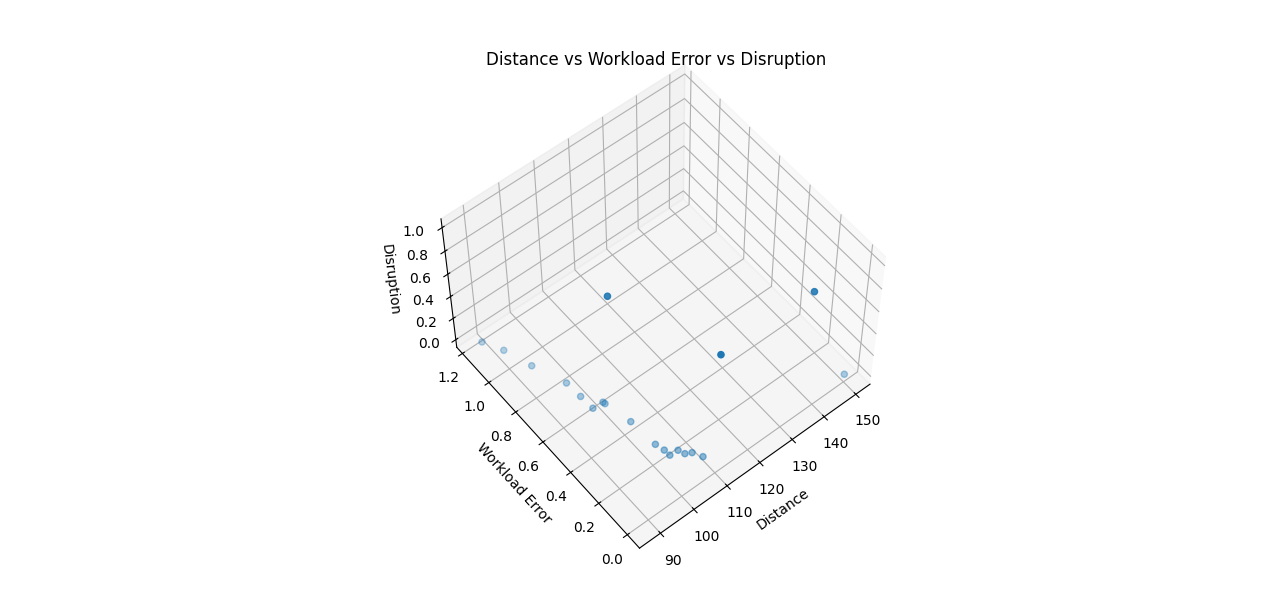
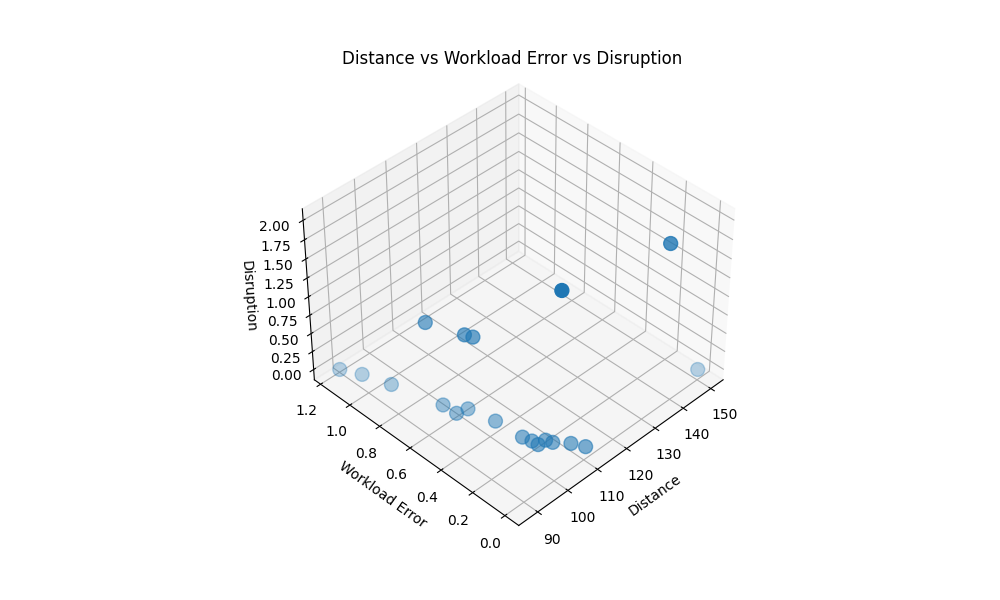
updated scripts and tex

Changed region(s): [[0.248, 0.06, 0.744, 0.93]]

diff --git a/step4/solver_uta.py b/step4/solver_uta.py
@@ -6,7 +6,7 @@ from gurobipy import Model, Var, LinExpr
 import numpy as np
 import matplotlib.pyplot as plt
 from typing import List, Dict
-from get_non_dominated_solutions import get_non_dominated_solutions
+from step4.get_solutions import get_non_dominated_solutions
 
 
 EPSILON = 1e-6
@@ -73,7 +73,7 @@ def print_results(vars: list[list[Var]], errors: list[Var], n, L):
 
 
 def plot_results_criterion(vars: list[list[Var]], n, L):
-    plt.figure(figsize=((14,6)))
+    plt.figure(figsize=((8, 8)))
     for i in range(n):
         x_vals = np.linspace(0, 1, L[i] + 1)
         y_vals = [vars[i][k].X for k in range(L[i] + 1)]
@@ -82,7 +82,7 @@ def plot_results_criterion(vars: list[list[Var]], n, L):
     plt.ylabel("Score")
     plt.title("Linear Curves for Each Criteria")
     plt.legend()
-    plt.savefig("step4/Criterion_Curves.png")
+    plt.savefig("figures/step4_uta_criterion.png")
 
 
 def comparision(vars: list[list[Var]], n, L, new_instances_array, x_min, x_max, plot):
@@ -104,19 +104,23 @@ def comparision(vars: list[list[Var]], n, L, new_instances_array, x_min, x_max, 
     sorted_labels = [f"I({i + 1})" for i in sorted_indices]
     
     if plot:
-        # Plot
-        plt.figure(figsize=(14,6))
+        # Normalize scores for colormap
+        import matplotlib.cm as cm
+        norm = plt.Normalize(min(sorted_scores), max(sorted_scores))
+        colors = plt.get_cmap("coolwarm")(norm(sorted_scores))  # Change "viridis" to another cmap if needed
+        plt.figure(figsize=(8, 8))
         plt.bar(
             range(len(sorted_scores)),
             sorted_scores,
             tick_label=sorted_labels,
+            color=colors,  # Apply colormap
         )
         plt.xlabel("Instances")
         plt.ylabel("Scores")
         plt.xticks(rotation=25)
         plt.title("Scores of New Instances")
-        plt.savefig("step4/UTA_Comparision.png")
-    
+        plt.savefig("figures/step4_uta_comparision.png")
+        
     # Return sorted instances
     return  [
         {
@@ -134,6 +138,7 @@ def main(references_dict, new_instances_dict):
     ############### Get the arrays ###############
     new_instances_dict = get_non_dominated_solutions()
     reference_instances_array, new_instances_array = convert_dictionnaries_to_array(references_dict, new_instances_dict)
+    new_instances_array = new_instances_array[new_instances_array[:, 1] < 1.45]
     n_instances, n = reference_instances_array.shape
     L: list[int] = [3 for _ in range(n)]
     x_min: np.ndarray = np.min(np.concatenate([reference_instances_array, new_instances_array]), axis=0)
@@ -190,8 +195,32 @@ def main(references_dict, new_instances_dict):
     print("-" *100)
     plot_results_criterion(vars = vars, n=n, L=L)
     new_instances_ranked = comparision(vars = vars, n=n, L=L, new_instances_array= new_instances_array, x_max=x_max, x_min=x_min, plot=True)
+    
     for new_instance in new_instances_ranked:
         print(new_instance)
+
+    # Extract the data
+    distances = [solution["total_distance"] for solution in new_instances_ranked]
+    workloads = [solution["max_workload"] for solution in new_instances_ranked]
+    disruptions = [solution["size_disruption"] for solution in new_instances_ranked]
+    ranks = [solution["rank"] for solution in new_instances_ranked]
+
+    fig = plt.figure(figsize=(10, 6))
+    ax = fig.add_subplot(projection="3d")
+    ax.view_init(elev=40, azim=-135)  # Adjust elevation and azimuth
+    ax.scatter(distances, workloads, disruptions, c=ranks, cmap="coolwarm_r", alpha=1.0, s=100)
+
+    # Annotate the top 5 points
+    for i in range(5):  # Assuming new_instances_ranked is sorted by rank
+        ax.text(distances[i], workloads[i], disruptions[i] + 0.1, f"Rank {1 + i}", fontsize=10, color="black")
+        
+    ax.set_xlabel("Distance")
+    ax.set_ylabel("Max Workload")
+    ax.set_zlabel("Disruption")  
+
+    plt.title("Distance vs Max Workload vs Disruption")
+    plt.grid(True)
+    plt.savefig("figures/step4_uta_ranking.png")
 
 if __name__ == "__main__":
     main(references_dict=ranked_instances, new_instances_dict={})  

diff --git a/step4/get_solutions.py b/step4/get_solutions.py
@@ -6,6 +6,10 @@ import csv
 import json
 import matplotlib.pyplot as plt
 
+
+def all_duplicate(whole_dict):  
+    same = set()   #We check all the dictionaries with the help of same set created
+    return [dict(tuple(sorted(dupl.items()))) for dupl in whole_dict if tuple(sorted(dupl.items())) not in same and not same.add(tuple(sorted(dupl.items())))] 
 epsilon = 0.001
 
 brick_workload: list[float] = []
@@ -80,7 +84,6 @@ def compute_disruption(
             disruption += main_vars[brick][sr_idx] * initial_offices[sr_idx][brick]
     return disruption
 
-
 def compute_workload_error(vars):
     max_workload_error = 0
     for var in compute_workloads(vars):
@@ -123,7 +126,14 @@ def compute_solutions(
                 min(disruption.getValue(), threshold_disruption) - epsilon
             )
 
-            best_solutions.append((m2.objVal, workload, disruption.getValue()))
+            item2 = {
+                "size_disruption": disruption.getValue(),
+                "total_distance": compute_distances(vars2, main_vars2).getValue(),
+                "max_workload": max(
+                    [workload.getValue() for workload in compute_workloads(vars2)]
+                ),
+            }
+            best_solutions.append(item2)
 
             m2.addConstr(disruption <= threshold_disruption)
 
@@ -137,7 +147,14 @@ def compute_solutions(
 
             threshold_workload = min(workload, threshold_workload) - epsilon
 
-            best_solutions.append((m1.objVal, workload, disruption.getValue()))
+            item1 = {
+                "size_disruption": disruption.getValue(),
+                "total_distance": compute_distances(vars1, main_vars1).getValue(),
+                "max_workload": max(
+                    [workload.getValue() for workload in compute_workloads(vars1)]
+                ),
+            }
+            best_solutions.append(item1)
 
             workloads = compute_workloads(vars1)
 
@@ -149,13 +166,10 @@ def compute_solutions(
             if m1.Status != GRB.OPTIMAL:
                 workload_finished = True
 
-    # remove duplicates
-    best_solutions = list(set(best_solutions))
-
-    return best_solutions
+    return all_duplicate(best_solutions)
 
 
-def main():
+def get_non_dominated_solutions():
     # initialize model
     m1 = Model("solve")
     vars1: list[list[Var]] = []
@@ -221,24 +235,5 @@ def main():
     for i in range(len(best_solutions)):
         print(best_solutions[i])
 
-    fig = plt.figure(figsize=(10, 6))
-    ax = fig.add_subplot(projection="3d")
-    ax.view_init(elev=40, azim=-135)  # Adjust elevation and azimuth
-    ax.scatter(
-        [solution[0] for solution in best_solutions],
-        [solution[1] for solution in best_solutions],
-        [solution[2] for solution in best_solutions],
-        s = 100
-    )
-    ax.set_xlabel("Distance")
-    ax.set_ylabel("Workload Error")
-    ax.set_zlabel("Disruption")  # type: ignore
+    return(best_solutions)
 
-    plt.title("Distance vs Workload Error vs Disruption")
-    plt.grid(True)
-    plt.show()
-    plt.savefig("figures/solve5.png")
-
-
-if __name__ == "__main__":
-    main()

diff --git a/report.tex b/report.tex
@@ -194,12 +194,44 @@ On utilise les 3 objectifs : distance, workload et disruption (nouvelle définit
 
 \begin{figure}[H]
     \centering
-    \includegraphics[width=0.8\textwidth]{figures/solve5.png}
+    \includegraphics[width=0.9\textwidth]{figures/solve5.png}
     \caption{Results for the tri-objective optimization.}
     \label{fig:solve2}
 \end{figure}
 
+
 \section*{Step 4 : Sélection des Solutions}
+
+Dans les trois premières étapes, la question abordée concerne le calcul des solutions non dominées pour le problème d'affectation. Le choix d'une solution spécifique dans l'ensemble des solutions non dominées reste à faire. 
+
+Dans cette nouvelle étape, il est demandé de développer un modèle de préférence additif en utilisant la méthode UTA afin de supporter le choix entre les solutions non dominées fournies par la section précédente.
+
+Un modèle additif linéaire par morceaux est généré à partir des données de préférences fournies.
+
+
+\begin{figure}[H]
+    \centering
+    \begin{minipage}{0.45\textwidth}
+        \centering
+        \includegraphics[width=\textwidth]{figures/step4_uta_comparision.png}
+        \caption{Score des solutions non dominées.}
+        \label{fig:uta_comparision}
+    \end{minipage}
+    \hfill
+    \begin{minipage}{0.45\textwidth}
+        \centering
+        \includegraphics[width=\textwidth]{figures/step4_uta_criterion.png}
+        \caption{Courbes des trois critères obtenues par UTA.}
+        \label{fig:uta_criterion}
+    \end{minipage}
+\end{figure}
+
+\begin{figure}[H]
+    \centering
+    \includegraphics[width=0.9\textwidth]{figures/step4_uta_ranking.png}
+    \caption{Instances plottées en 3D et classées.}
+    \label{fig:uta_ranking}
+\end{figure}
 
 
 \section*{Conclusion}

diff --git a/data/parse_uta_decision_preferences.py b/data/parse_uta_decision_preferences.py
@@ -8,7 +8,7 @@ with open("data/uta_decision_preferences.csv", mode="r") as file:
         ranked_instances.append(
             {   
                 "rank": int(row[0]),
-                "total_distance": 2*float(row[1]),
+                "total_distance": float(row[1]),
                 "max_workload": float(row[2]),
                 "size_disruption": int(row[3])
             }
